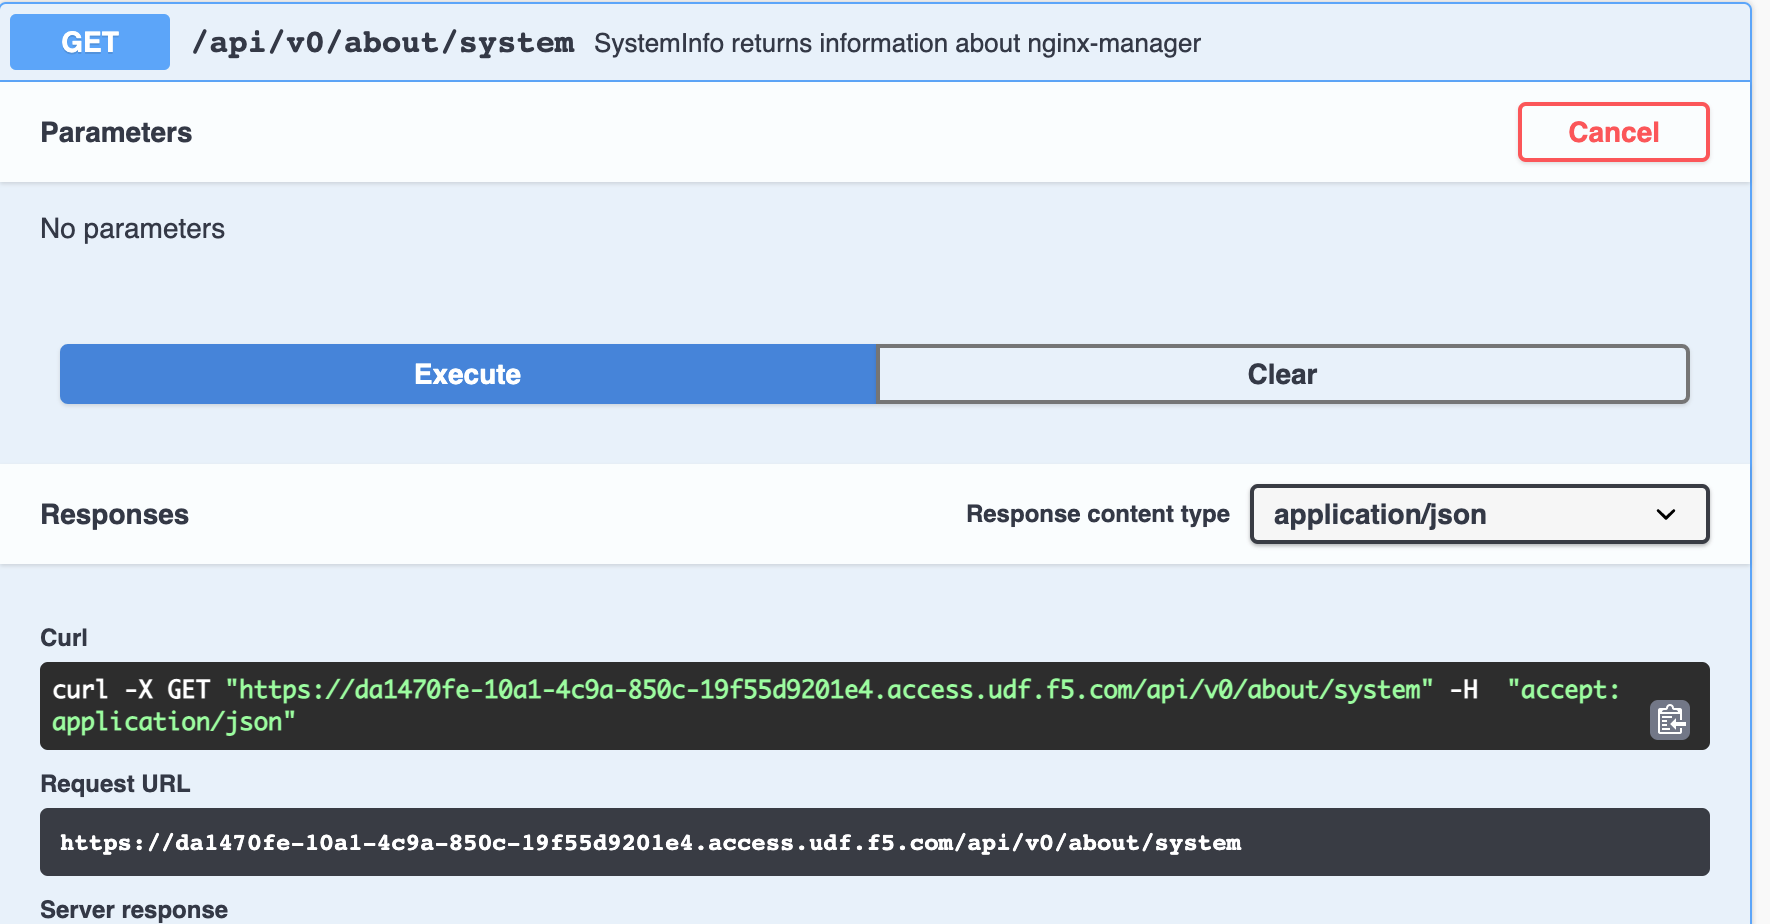
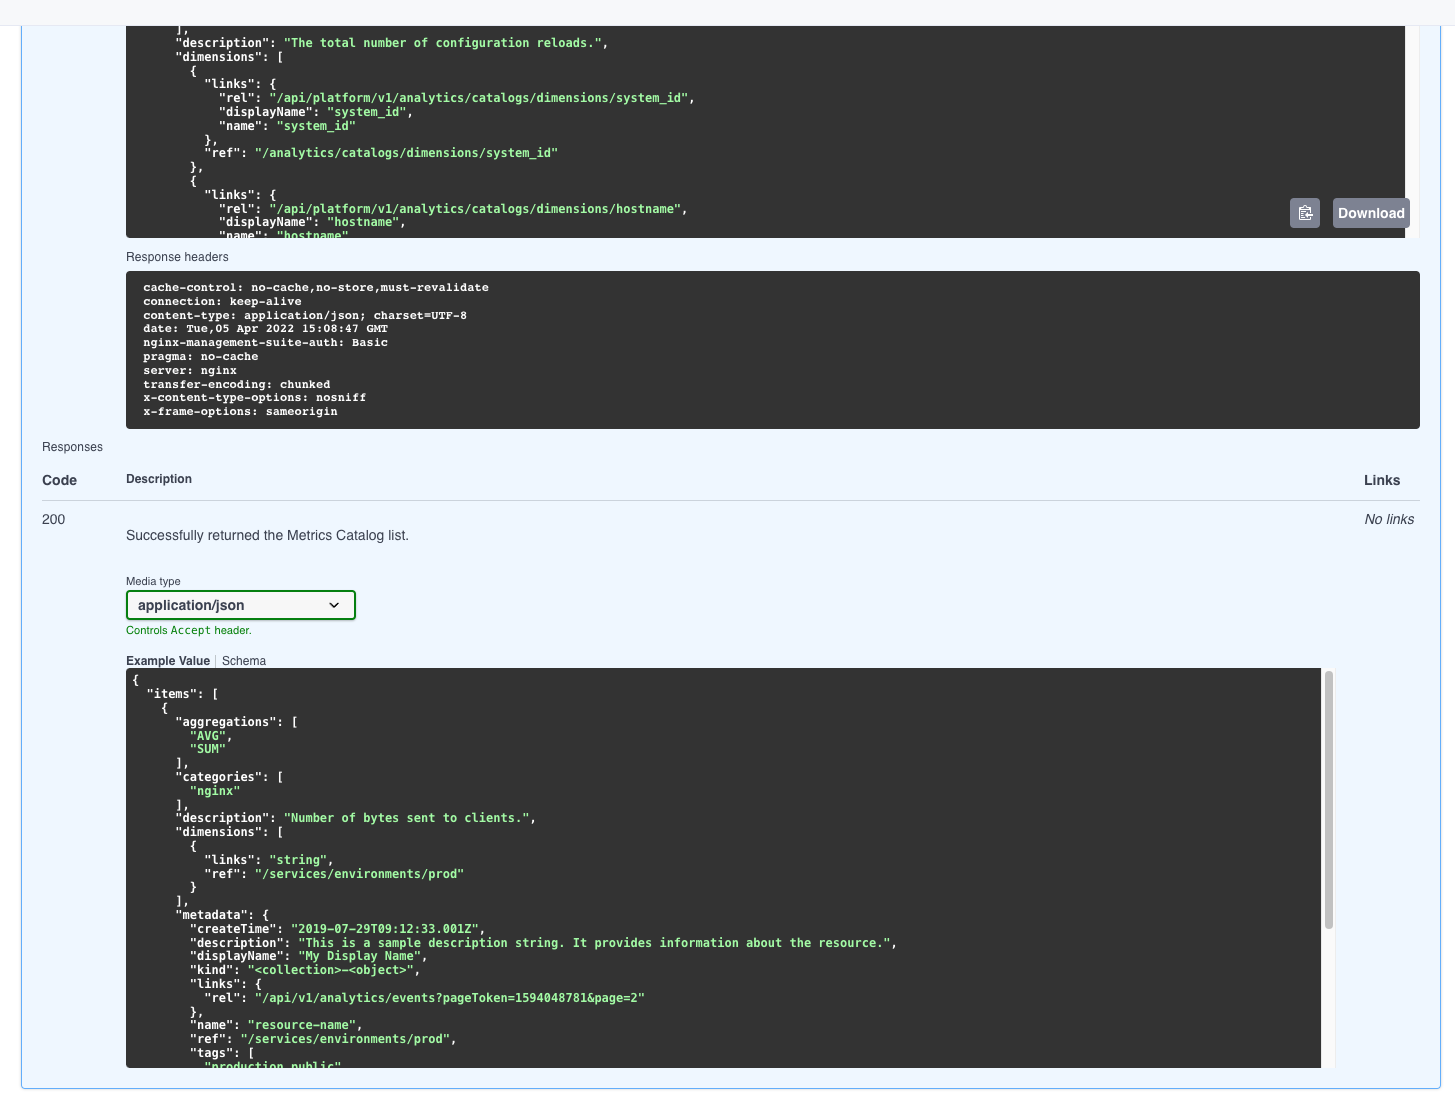
added images to step 1,2

diff --git a/docs/source/module2/2.4-swagger-api.rst b/docs/source/module2/2.4-swagger-api.rst
@@ -27,42 +27,33 @@ the UDF dashboard.  You can select the ``ACCESS`` menu under
 ``NGINX Manager Server`` and the ``INSTANCE MANAGER UI`` selection.
 This will open the user interface in a new browser tab.
 
-Navigate to the Settings section and select the API top-level 
-selection to navigate to the ``Settings - API`` page.  Your window 
+Navigate to the Docs module under the drop down menu - API`` page.  Your window 
 should look similar to the one below.
 
 .. image:: ./UI-settings-API.png
 
-On this page select the ``Open Swagger`` button and you should 
-see a page similar to one below display.  We will use this page 
-for the majority of the lesson.
-
-.. image:: ./UI-swagger-ui.png
+We will use this page for the majority of the lesson.
 
 Step 2: Get information on the system
 -------------------------------------
 
 The swagger-ui page is an easy way to test the API on your ``nginx-manager`` 
-instance.  Let's explore the ``AboutService`` section first.
+instance.  Let's explore the ``Catalogs`` section first.
 
-Click on the ``GET`` button for ``/api/v0/about/system``
+Click on the ``GET`` button for ``/analytics/catalogs/metrics``
 
 .. image:: ./API-try.png
 
 This action just explains the API that is there and the sample information 
 it provides.  We can also use this page to make real API calls.
 
-Click on ``Try it out`` at the top right part of the API section.
+Click on ``Execute`` button and scroll down to see if we captured some results.
 
 .. image:: ./API-execute.png
 
 Notice we have a curl command example.  You can copy and paste that line 
 into an instance with ``curl`` installed and try it yourself.  The page 
 allows us to try it also.
-
-Click on ``execute`` and scroll down to see if we captured some results.
-
-.. image:: ./API-about-results.png
 
 Notice how we now see information in the details pane.  If you look closely 
 you can see this is actual data from our installed instance.
